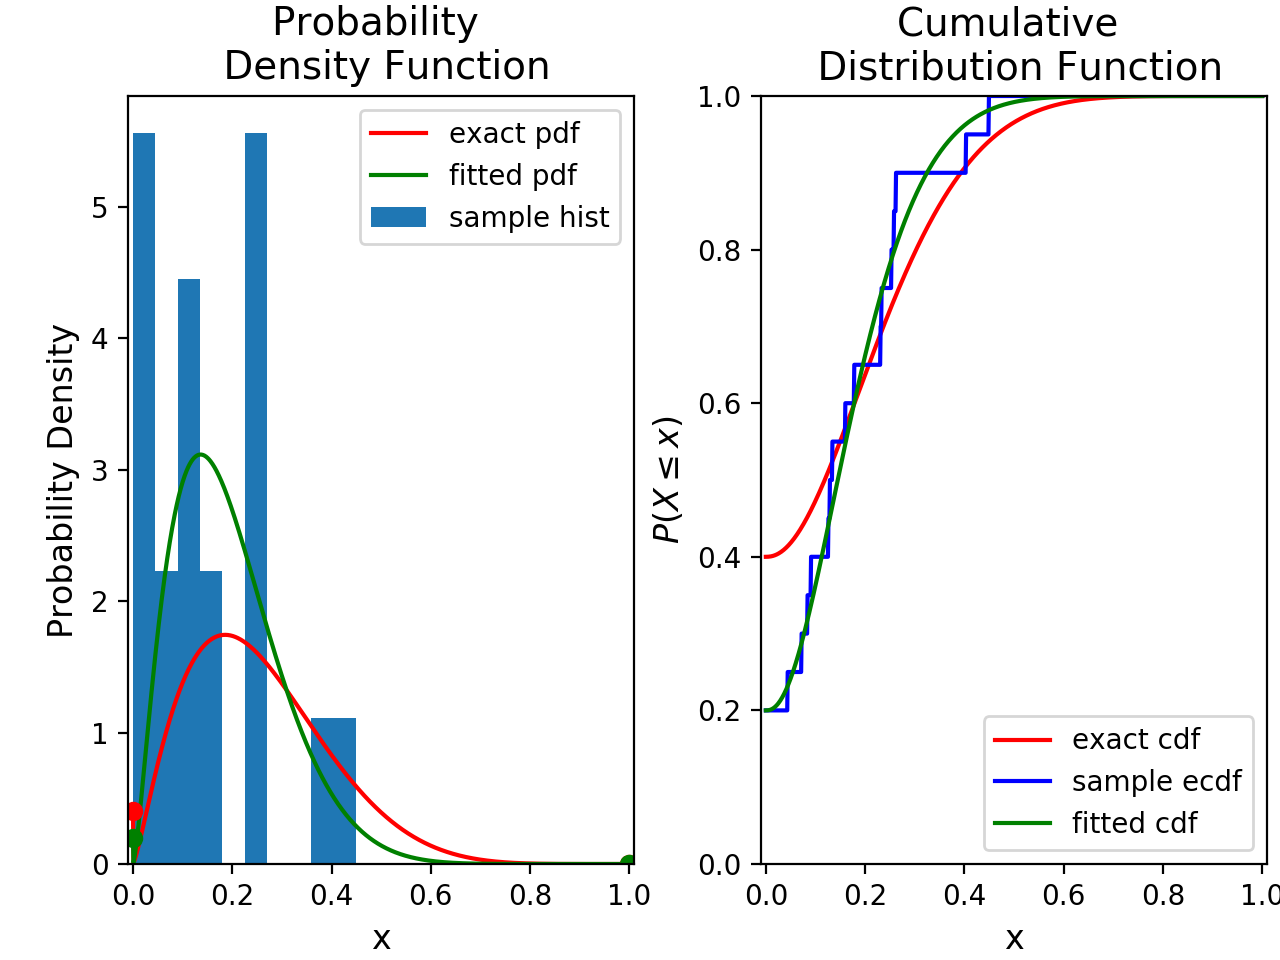
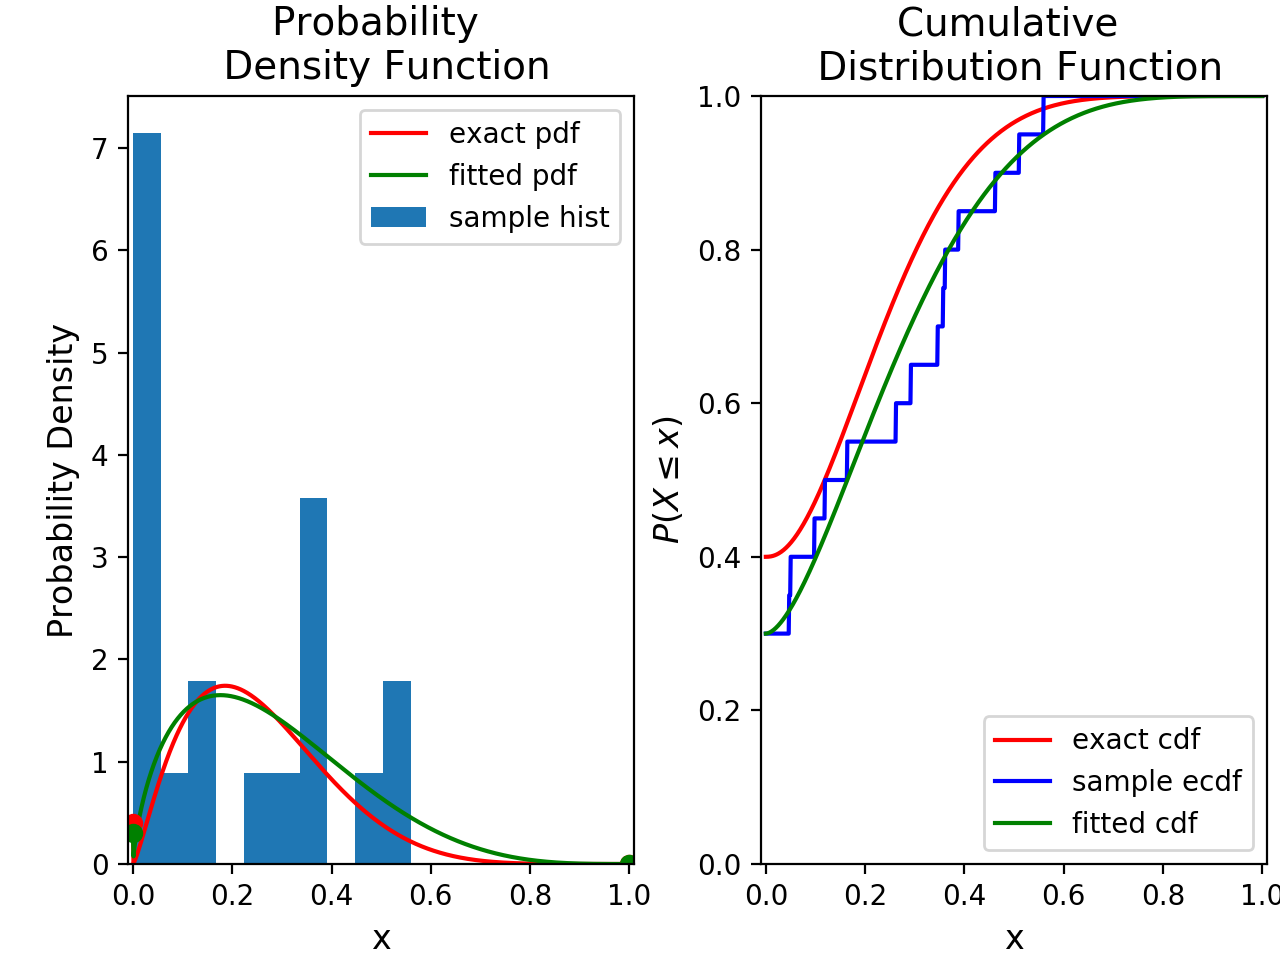
modified:   Sphinx-docs/pyplots/sample.npy 	modified:   Sphinx-docs/tutorial.rst 	modified:   docs/_images/beinf_example2.png 	modified:   docs/_images/beinf_example3.png 	modified:   docs/_sources/tutorial.rst.txt 	modified:   docs/pyplots/beinf_example1.pdf 	modified:   docs/pyplots/beinf_example2

Changed region(s): [[0.0625, 0.125, 0.4375, 0.9062], [0.5938, 0.0938, 0.9062, 0.75]]

diff --git a/docs/searchindex.js b/docs/searchindex.js
@@ -1,1 +1,1 @@
-Search.setIndex({docnames:["code","index","tutorial"],envversion:52,filenames:["code.rst","index.rst","tutorial.rst"],objects:{"":{beinf:[0,0,0,"-"],taqm:[0,0,0,"-"]},"beinf.beinf_gen":{beta_moments:[0,2,1,""],cdf_eval:[0,2,1,""],check_cases:[0,2,1,""],ecdf:[0,2,1,""],fit:[0,2,1,""],fit_beta:[0,2,1,""]},"taqm.taqm":{calibrate:[0,2,1,""],fit_params:[0,2,1,""],lin:[0,2,1,""],piecewise_lin:[0,2,1,""],trend_adjust_1p:[0,2,1,""],trend_adjust_2p:[0,2,1,""],unpack_params:[0,2,1,""]},beinf:{beinf_gen:[0,1,1,""]},taqm:{taqm:[0,1,1,""]}},objnames:{"0":["py","module","Python module"],"1":["py","class","Python class"],"2":["py","method","Python method"]},objtypes:{"0":"py:module","1":"py:class","2":"py:method"},terms:{"boolean":0,"case":[0,2],"class":[0,1,2],"default":2,"final":2,"float":0,"function":[0,2],"import":2,"return":0,"true":[0,2],"var":2,For:[0,2],One:[0,1],The:[0,1,2],These:2,Using:2,_argcheck:0,_cdf:0,_pdf:0,_ppf:0,a_f:2,about:0,abov:2,access:1,accord:2,account:2,achiev:2,actual:2,add_subplot:2,added:[0,2],addit:[0,2],addition:[0,2],additionali:2,adirkson:1,adjust:1,after:0,all:[0,2],along:2,also:2,altern:2,ani:[0,2],appli:[0,1,2],appropri:0,arang:2,arbitrari:2,arbitrarili:2,area:2,aren:2,arg:0,argument:0,around:2,arrai:[0,2],avail:1,ax1:2,ax2:2,axi:2,b_f:2,badvalu:0,base:2,becaus:2,been:[0,2],befor:2,beinf:[1,2],beinf_gen:0,below:1,beta:1,beta_mo:0,bia:2,both:[1,2],bottom:2,breakpoint:[0,2],built:1,calcul:2,calibr:[0,2],call:2,can:[1,2],cannot:[0,2],carri:[0,1],cdf:[0,1,2],cdf_eval:[0,2],cdf_ob:2,cdf_val:0,cdf_x_t:2,cdf_x_t_cal:2,cdf_x_ta:2,cdf_y_ta:2,cell:[1,2],center:0,chang:2,chdir:2,check:[0,2],check_cas:0,choic:2,choos:0,circl:2,climat:1,climatolog:2,clip:0,close:0,code:2,com:1,complet:2,complic:2,comput:[0,1,2],concentr:2,consist:1,constrain:0,contain:[0,2],continu:[0,2],conveni:2,copi:2,correspond:2,could:[0,2],cours:2,cover:2,creat:2,crp:2,crps_x_t:2,crps_x_t_cal:2,cumul:[0,2],data:[0,1,2],data_al:0,data_param:0,data_sub:0,data_ta:0,deal:2,defin:[0,2],delta:0,densiti:[0,2],describ:[0,1,2],detail:1,detrend:0,differ:2,directori:2,dirkson:[0,1,2],disribut:0,distribut:1,document:[1,2],doesn:2,don:2,done:2,draw:2,each:[0,2],ecdf:[0,2],ecdf_val:0,either:[0,2],els:2,empir:[0,2],encapsul:2,encount:2,ensembl:[0,2],equal:[0,2],equat:0,estim:0,evalu:[0,2],exact:2,exampl:1,exclud:2,execut:2,exist:2,exlud:0,extradoc:0,fals:[0,2],ferrari:1,few:2,fig:2,figur:2,file:1,finish:2,first:2,fit:[0,1,2],fit_beta:0,fit_data:0,fit_param:[0,2],fite:0,follow:2,fontsiz:2,forecast:[0,2],four:[0,2],freez:[1,2],from:[0,2],further:1,gener:2,get:2,github:1,given:[0,2],going:2,greater:0,grid:[1,2],hand:2,handl:2,happen:2,has:2,have:[0,2],heavisid:2,here:[0,2],hindcast:[0,2],hist:2,histogram:2,histor:2,histtyp:2,how:2,howev:2,http:1,ice:[1,2],ident:2,includ:[0,1,2],index:1,indic:2,individu:[0,1,2],inf:[0,2],inflat:1,inherit:[0,2],input:2,instanc:[0,2],instanti:2,intercept:0,interv:[0,2],its:[0,1,2],journal:1,keep:2,known:[0,2],kurt:2,label:2,least:0,left:2,legend:2,len:2,leq:2,less:0,level:1,lie:0,lies:0,lin:0,linear:[0,2],linearli:0,linregress:2,linspac:2,load:2,loc:2,longnam:0,lower:2,made:2,mai:0,make:1,map:1,mass:2,matplotlib:2,matter:2,mean:2,meant:2,member:[0,2],merryfield:1,method:[0,1,2],mh_ex1:2,mh_ex2:2,mh_ex3:2,mle:0,model:2,modul:1,moment:[0,2],momtyp:0,monahan:1,more:[0,2],must:2,mvsk:2,name:0,ndarrai:0,ndarri:0,need:0,next:2,non:[0,2],none:0,norm:2,note:2,now:2,npy:2,nsampl:2,number:0,numpi:2,nxm:0,object:[1,2],obs:2,observ:2,oh_ex1:2,oh_ex2:2,oh_ex3:2,one:[1,2],ones:2,onli:2,open:0,option:0,origin:2,ospina:1,out:[0,1],over:[0,2],p_f:2,p_x_t:2,p_x_ta:2,p_y_ta:2,page:1,panel:2,paper:1,paramat:0,paramet:[0,2],parametr:0,part:2,particular:2,past:2,pdf:[1,2],perform:[0,2],period:[0,2],piec:[0,2],piecewise_lin:0,plot:2,plt:2,point:0,portion:0,prece:2,print:2,probabl:[0,1,2],procedur:0,project:1,pval_i:2,pval_x:2,pyplot:2,python:1,q_f:2,quantil:1,quantiti:2,random:[0,1,2],rang:2,rank:2,raw:[0,2],raw_fcst_ex1:2,raw_fcst_ex2:2,raw_fcst_ex3:2,readm:1,recent:0,record:[0,2],relev:2,reli:[0,1],replac:0,respect:0,retain:2,revert:[0,2],right:2,rv_continu:[0,2],rv_f:2,rvs:2,same:[0,2],sampl:[0,2],satisfi:[0,2],scipi:[0,2],score:2,sea:2,search:1,section:[0,2],see:[0,1,2],seed:0,seen:2,seri:[0,2],set:2,shade:2,shape:0,shift:2,should:[0,1,2],show:2,sic:[1,2],signific:2,sinc:2,singl:[0,2],sip:2,sip_x_t:2,sip_x_t_cal:2,situat:2,size:0,skew:2,skill:2,slightli:2,slope:0,some:[0,2],sourc:0,span:2,special:0,squar:0,start:2,stat:2,statement:2,statist:1,step:0,stepfil:2,still:2,store:[0,2],subclass:[0,2],submit:1,subplots_adjust:2,t_b:[0,2],take:0,tamh:[0,2],taoh:[0,2],taqm:[1,2],tau:2,tau_:2,tau_f:2,tau_t:[0,2],techniqu:0,templat:[1,2],test:0,than:[0,2],thei:0,therefor:[0,2],thi:[0,1,2],those:[0,2],three:2,through:2,thu:2,time:[0,2],titl:2,top:2,trapz:2,trend:1,trend_adjust_1p:[0,2],trend_adjust_2p:0,trust:2,trust_raw_fcst:2,trust_sharp_fcst:[0,2],tutori:[0,1],two:[0,1,2],unknown:0,unkown:0,unpack:0,unpack_param:0,updat:2,upper:2,use:[0,2],used:[0,1,2],useful:2,user:[1,2],using:[0,1,2],util:2,valu:[0,2],variabl:[0,2],variat:[1,2],wai:2,want:0,what:2,when:[0,2],where:[0,2],whether:0,which:[0,2],wise:[0,2],within:0,work:2,would:2,wspace:2,x_c:2,x_param:0,x_samp:0,x_t:[0,2],x_t_cal:2,x_t_cal_beta:0,x_t_cal_param:[0,2],x_t_param:[0,2],x_ta:2,x_ta_param:2,xlabel:2,xlim:2,xtol:0,y_param:0,y_t:2,y_ta:2,y_ta_param:2,year:[0,2],ylabel:2,ylim:2,zero:1},titles:["Documentation","Calibrated Probabilistic Forecasts of Sea Ice Concentration","Tutorial"],titleterms:{Ice:1,One:2,adjust:[0,2],beinf:0,beta:[0,2],calibr:1,concentr:1,content:1,distribut:[0,2],document:0,exampl:2,forecast:1,indic:1,inflat:[0,2],map:[0,2],one:0,probabilist:1,quantil:[0,2],refer:1,sea:1,tabl:1,taqm:0,trend:[0,2],tutori:2,zero:[0,2]}})
+Search.setIndex({docnames:["code","index","tutorial"],envversion:52,filenames:["code.rst","index.rst","tutorial.rst"],objects:{"":{beinf:[0,0,0,"-"],taqm:[0,0,0,"-"]},"beinf.beinf_gen":{beta_moments:[0,2,1,""],cdf_eval:[0,2,1,""],check_cases:[0,2,1,""],ecdf:[0,2,1,""],fit:[0,2,1,""],fit_beta:[0,2,1,""]},"taqm.taqm":{calibrate:[0,2,1,""],fit_params:[0,2,1,""],lin:[0,2,1,""],piecewise_lin:[0,2,1,""],trend_adjust_1p:[0,2,1,""],trend_adjust_2p:[0,2,1,""],unpack_params:[0,2,1,""]},beinf:{beinf_gen:[0,1,1,""]},taqm:{taqm:[0,1,1,""]}},objnames:{"0":["py","module","Python module"],"1":["py","class","Python class"],"2":["py","method","Python method"]},objtypes:{"0":"py:module","1":"py:class","2":"py:method"},terms:{"boolean":0,"case":[0,2],"class":[0,1,2],"default":2,"final":2,"float":0,"function":[0,2],"import":2,"return":0,"true":[0,2],"var":2,For:[0,2],One:[0,1],The:[0,1,2],These:2,Using:2,_argcheck:0,_cdf:0,_pdf:0,_ppf:0,a_f:2,about:0,abov:2,access:1,accord:2,account:2,achiev:2,actual:2,add_subplot:2,added:[0,2],addit:[0,2],addition:[0,2],additionali:2,adirkson:1,adjust:1,after:0,all:[0,2],along:2,also:2,altern:2,ani:[0,2],appli:[0,1,2],appropri:0,arang:2,arbitrari:2,arbitrarili:2,area:2,aren:2,arg:0,argument:0,around:2,arrai:[0,2],avail:1,ax1:2,ax2:2,axi:2,b_f:2,badvalu:0,base:2,becaus:2,been:[0,2],befor:2,beinf:[1,2],beinf_gen:0,below:1,beta:1,beta_mo:0,bia:2,both:[1,2],bottom:2,breakpoint:[0,2],built:1,calcul:2,calibr:[0,2],call:2,can:[1,2],cannot:[0,2],carri:[0,1],cdf:[0,1,2],cdf_eval:[0,2],cdf_ob:2,cdf_val:0,cdf_x_t:2,cdf_x_t_cal:2,cdf_x_ta:2,cdf_y_ta:2,cell:[1,2],center:0,chang:2,chdir:2,check:[0,2],check_cas:0,choic:2,choos:0,circl:2,climat:1,climatolog:2,clip:0,close:0,code:2,com:1,complet:2,complic:2,comput:[0,1,2],concentr:2,consist:1,constrain:0,contain:[0,2],continu:[0,2],conveni:2,copi:2,correspond:2,could:[0,2],cours:2,cover:2,creat:2,crp:2,crps_x_t:2,crps_x_t_cal:2,cumul:[0,2],data:[0,1,2],data_al:0,data_param:0,data_sub:0,data_ta:0,deal:2,defin:[0,2],delta:0,densiti:[0,2],describ:[0,1,2],detail:1,detrend:0,differ:2,directori:2,dirkson:[0,1,2],disribut:0,distribut:1,document:[1,2],doesn:2,don:2,done:2,draw:2,each:[0,2],ecdf:[0,2],ecdf_val:0,either:[0,2],els:2,empir:[0,2],encapsul:2,encount:2,ensembl:[0,2],equal:[0,2],equat:0,estim:0,evalu:[0,2],exact:2,exampl:1,exclud:2,execut:2,exist:2,exlud:0,extradoc:0,fals:[0,2],ferrari:1,few:2,fig:2,figur:2,file:1,finish:2,first:2,fit:[0,1,2],fit_beta:0,fit_data:0,fit_param:[0,2],fite:0,follow:2,fontsiz:2,forecast:[0,2],four:[0,2],freez:[1,2],from:[0,2],further:1,gener:2,get:2,github:1,given:[0,2],going:2,greater:0,grid:[1,2],hand:2,handl:2,happen:2,has:2,have:[0,2],heavisid:2,here:[0,2],hindcast:[0,2],hist:2,histogram:2,histor:2,histtyp:2,how:2,howev:2,http:1,ice:[1,2],ident:2,includ:[0,1,2],index:1,indic:2,individu:[0,1,2],inf:[0,2],inflat:1,inherit:[0,2],input:2,instanc:[0,2],instanti:2,intercept:0,interv:[0,2],its:[0,1,2],journal:1,keep:2,known:[0,2],kurt:2,label:2,least:0,left:2,legend:2,len:2,leq:2,less:0,level:1,lie:0,lies:0,lin:0,linear:[0,2],linearli:0,linregress:2,linspac:2,load:2,loc:2,longnam:0,lower:2,made:2,mai:[0,2],make:1,map:1,mass:2,matplotlib:2,matter:2,mean:2,meant:2,member:[0,2],merryfield:1,method:[0,1,2],mh_ex1:2,mh_ex2:2,mh_ex3:2,mle:0,model:2,modul:1,moment:[0,2],momtyp:0,monahan:1,more:[0,2],must:2,mvsk:2,name:0,ndarrai:0,ndarri:0,need:0,next:2,non:[0,2],none:0,norm:2,note:2,now:2,npy:2,nsampl:2,number:0,numpi:2,nxm:0,object:[1,2],obs:2,observ:2,oh_ex1:2,oh_ex2:2,oh_ex3:2,one:[1,2],ones:2,onli:2,open:0,option:0,origin:2,ospina:1,out:[0,1],over:[0,2],p_f:2,p_x_t:2,p_x_ta:2,p_y_ta:2,page:1,panel:2,paper:1,paramat:0,paramet:[0,2],parametr:0,part:2,particular:2,past:2,pdf:[1,2],perform:[0,2],period:[0,2],piec:[0,2],piecewise_lin:0,plot:2,plt:2,point:0,portion:0,prece:2,print:2,probabl:[0,1,2],procedur:0,project:1,pval_i:2,pval_x:2,pyplot:2,python:1,q_f:2,quantil:1,quantiti:2,random:[0,1,2],rang:2,rank:2,raw:[0,2],raw_fcst_ex1:2,raw_fcst_ex2:2,raw_fcst_ex3:2,readm:1,recent:0,record:[0,2],relev:2,reli:[0,1],replac:0,respect:0,retain:2,revert:[0,2],right:2,rv_continu:[0,2],rv_f:2,rvs:2,same:[0,2],sampl:[0,2],satisfi:[0,2],scipi:[0,2],score:2,sea:2,search:1,section:[0,2],see:[0,1,2],seed:0,seen:2,seri:[0,2],set:2,shade:2,shape:0,shift:2,should:[0,1,2],show:2,sic:[1,2],signific:2,sinc:2,singl:[0,2],sip:2,sip_x_t:2,sip_x_t_cal:2,situat:2,size:0,skew:2,skill:2,slightli:2,slope:0,some:[0,2],sourc:0,span:2,special:0,squar:0,start:2,stat:2,statement:2,statist:1,step:0,stepfil:2,still:2,store:[0,2],subclass:[0,2],submit:1,subplots_adjust:2,t_b:[0,2],take:0,tamh:[0,2],taoh:[0,2],taqm:[1,2],tau:2,tau_:2,tau_f:2,tau_t:[0,2],techniqu:0,templat:[1,2],test:0,than:[0,2],thei:0,therefor:[0,2],thi:[0,1,2],those:[0,2],three:2,through:2,thu:2,time:[0,2],titl:2,top:2,trapz:2,trend:1,trend_adjust_1p:[0,2],trend_adjust_2p:[0,2],trust:2,trust_raw_fcst:2,trust_sharp_fcst:[0,2],tutori:[0,1],two:[0,1,2],unknown:0,unkown:0,unpack:0,unpack_param:0,updat:2,upper:2,use:[0,2],used:[0,1,2],useful:2,user:[1,2],using:[0,1,2],util:2,valu:[0,2],variabl:[0,2],variat:[1,2],wai:2,want:0,what:2,when:[0,2],where:[0,2],whether:0,which:[0,2],wise:[0,2],within:0,work:2,would:2,wspace:2,x_c:2,x_param:0,x_samp:0,x_t:[0,2],x_t_cal:2,x_t_cal_beta:0,x_t_cal_param:[0,2],x_t_param:[0,2],x_ta:2,x_ta_param:2,xlabel:2,xlim:2,xtol:0,y_param:0,y_t:2,y_ta:2,y_ta_param:2,year:[0,2],ylabel:2,ylim:2,zero:1},titles:["Documentation","Calibrated Probabilistic Forecasts of Sea Ice Concentration","Tutorial"],titleterms:{Ice:1,One:2,adjust:[0,2],beinf:0,beta:[0,2],calibr:1,concentr:1,content:1,distribut:[0,2],document:0,exampl:2,forecast:1,indic:1,inflat:[0,2],map:[0,2],one:0,probabilist:1,quantil:[0,2],refer:1,sea:1,tabl:1,taqm:0,trend:[0,2],tutori:2,zero:[0,2]}})

diff --git a/docs/tutorial.html b/docs/tutorial.html
@@ -183,7 +183,7 @@
     <span class="n">Y_ta</span> <span class="o">=</span> <span class="n">np</span><span class="o">.</span><span class="n">copy</span><span class="p">(</span><span class="n">Y</span><span class="p">)</span>
 </pre></div>
 </div>
-<p>The user should note that there also exists a function for performing the trend adjustment using a piece-wise linear fit of the MH and OH time series, called <a class="reference internal" href="code.html#taqm.taqm.trend_adjust_1p" title="taqm.taqm.trend_adjust_1p"><code class="xref py py-func docutils literal notranslate"><span class="pre">trend_adjust_1p()</span></code></a>, where the breakpoint year of the piece-wise function is a user-defined input to the function (default is 1999).</p>
+<p>The user may note that there also exists a function for performing the trend adjustment using a piece-wise linear fit of the MH and OH time series (called <a class="reference internal" href="code.html#taqm.taqm.trend_adjust_2p" title="taqm.taqm.trend_adjust_2p"><code class="xref py py-func docutils literal notranslate"><span class="pre">trend_adjust_2p()</span></code></a>), where the breakpoint year of the piece-wise function is a user-defined input to the function (default is 1999).</p>
 <p>The following is a plot of <code class="code docutils literal notranslate"><span class="pre">X</span></code> and <code class="code docutils literal notranslate"><span class="pre">Y</span></code> (top panel), and <code class="code docutils literal notranslate"><span class="pre">X_ta</span></code> and <code class="code docutils literal notranslate"><span class="pre">Y_ta</span></code> (bottom panel), with the ensemble range for <code class="code docutils literal notranslate"><span class="pre">X</span></code> and <code class="code docutils literal notranslate"><span class="pre">X_ta</span></code> encapsulated in the shaded area.</p>
 <div class="figure">
 <img alt="_images/taqm_example1_trendadjust.png" src="_images/taqm_example1_trendadjust.png" />

diff --git a/Sphinx-docs/tutorial.rst b/Sphinx-docs/tutorial.rst
@@ -166,7 +166,7 @@ The MH and OH data loaded span the period :math:`\tau_t`. Now, we'll instantiate
        Y_ta = np.copy(Y)
 
 
-The user should note that there also exists a function for performing the trend adjustment using a piece-wise linear fit of the MH and OH time series, called :func:`~taqm.taqm.trend_adjust_1p`, where the breakpoint year of the piece-wise function is a user-defined input to the function (default is 1999).
+The user may note that there also exists a function for performing the trend adjustment using a piece-wise linear fit of the MH and OH time series (called :func:`~taqm.taqm.trend_adjust_2p`), where the breakpoint year of the piece-wise function is a user-defined input to the function (default is 1999).
 
 The following is a plot of :code:`X` and :code:`Y` (top panel), and :code:`X_ta` and :code:`Y_ta` (bottom panel), with the ensemble range for :code:`X` and :code:`X_ta` encapsulated in the shaded area.
  
